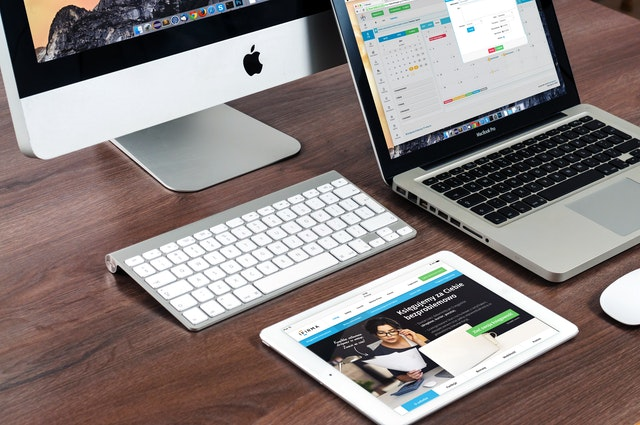
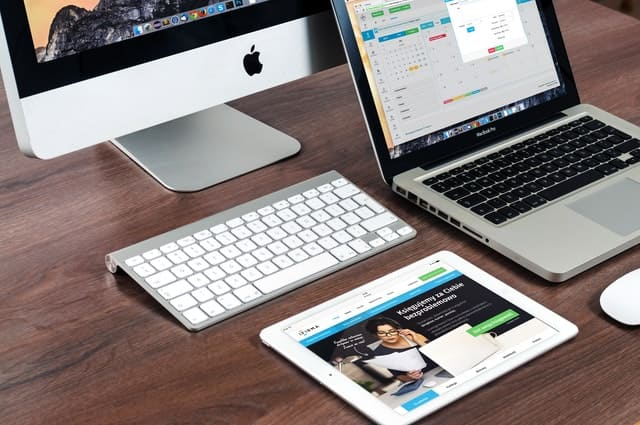
Correção ortográfica e redução do tamanho das imagens

diff --git a/index.html b/index.html
@@ -113,14 +113,17 @@
             </div>
             <div class="tag">
                 <h3>Web Apps</h3>
-                <p>Coloque suas ideias em prática! <br> Use mapas, armazene e genrencie dados da forma que for necessária para administrar sua empresa ou agradar seu usuário.   
+                <p>Coloque suas idéias em prática! <br>
+                    Use mapas, armazene e gerencie dados da forma que for necessária para administrar sua empresa ou agradar seu usuário. 
+                       
                 </p>
                 <button onclick="mostraModal('webapp')">Saiba Mais</button>
             </div>
             <div class="tag">
                 <h3>Seu negócio no Google</h3>
-                <p>Seja encontrado onde as vendas contecem, no google!
+                <p>Seja encontrado onde as vendas acontecem, no google!
                     O SEO e ADS que você precisa para ser visto pelo cliente certo, mostre sua marca ou produto para quem realmente quer! 
+
                 </p>
                 <button onclick="mostraModal('google')">Saiba Mais</button>
             </div>

diff --git a/google/index.html b/google/index.html
@@ -11,7 +11,7 @@
     <article>
         <h2>Seu site nas buscas!</h2>
             <p>O marketing do seu site no sistema de busca mais utilizado do mundo, <br>
-            seja encontrado pelo cliente que eseja seu produto ou serviço.</p>
+            seja encontrado pelo cliente que esteja seu produto ou serviço.</p>
 
             <p>Eu te ajudo a vender no google!</p>
 

diff --git a/landing/index.html b/landing/index.html
@@ -12,7 +12,7 @@
         <h2>Sites institucionais ou 
             Landing Pages</h2>
             <p>Sites completos para sua empresa <br>
-                ou negócio, paginas de vendas, <br>
+                ou negócio, páginas de vendas, <br>
                 captura, agradecimento...</p>
 
             <p>Tudo para sua captação e venda! </p>

diff --git a/style.css b/style.css
@@ -123,7 +123,7 @@ html{
 #home img{
     border-radius: 50%;
     background: linear-gradient(to right bottom, var(--blue)-150% , var(--green));
-    filter: brightness(1.5);
+    filter: brightness(1.3);
 }
 #sobre{
     background: linear-gradient(to right bottom, rgb(0, 0, 44), rgb(0, 0, 30));
